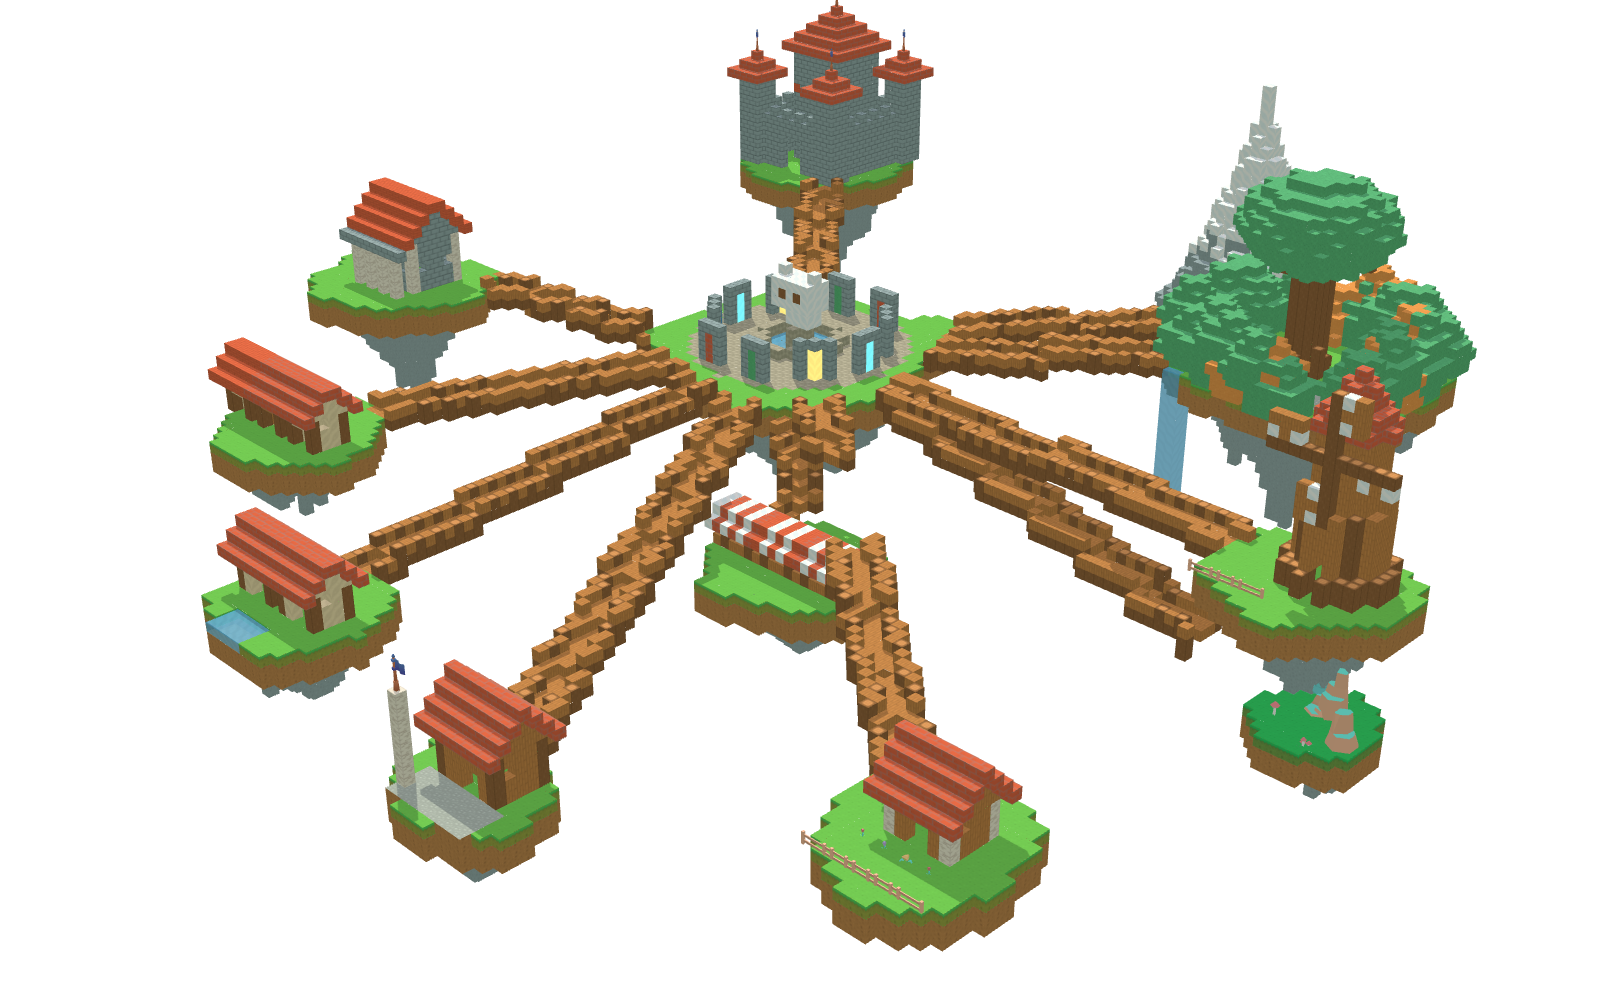
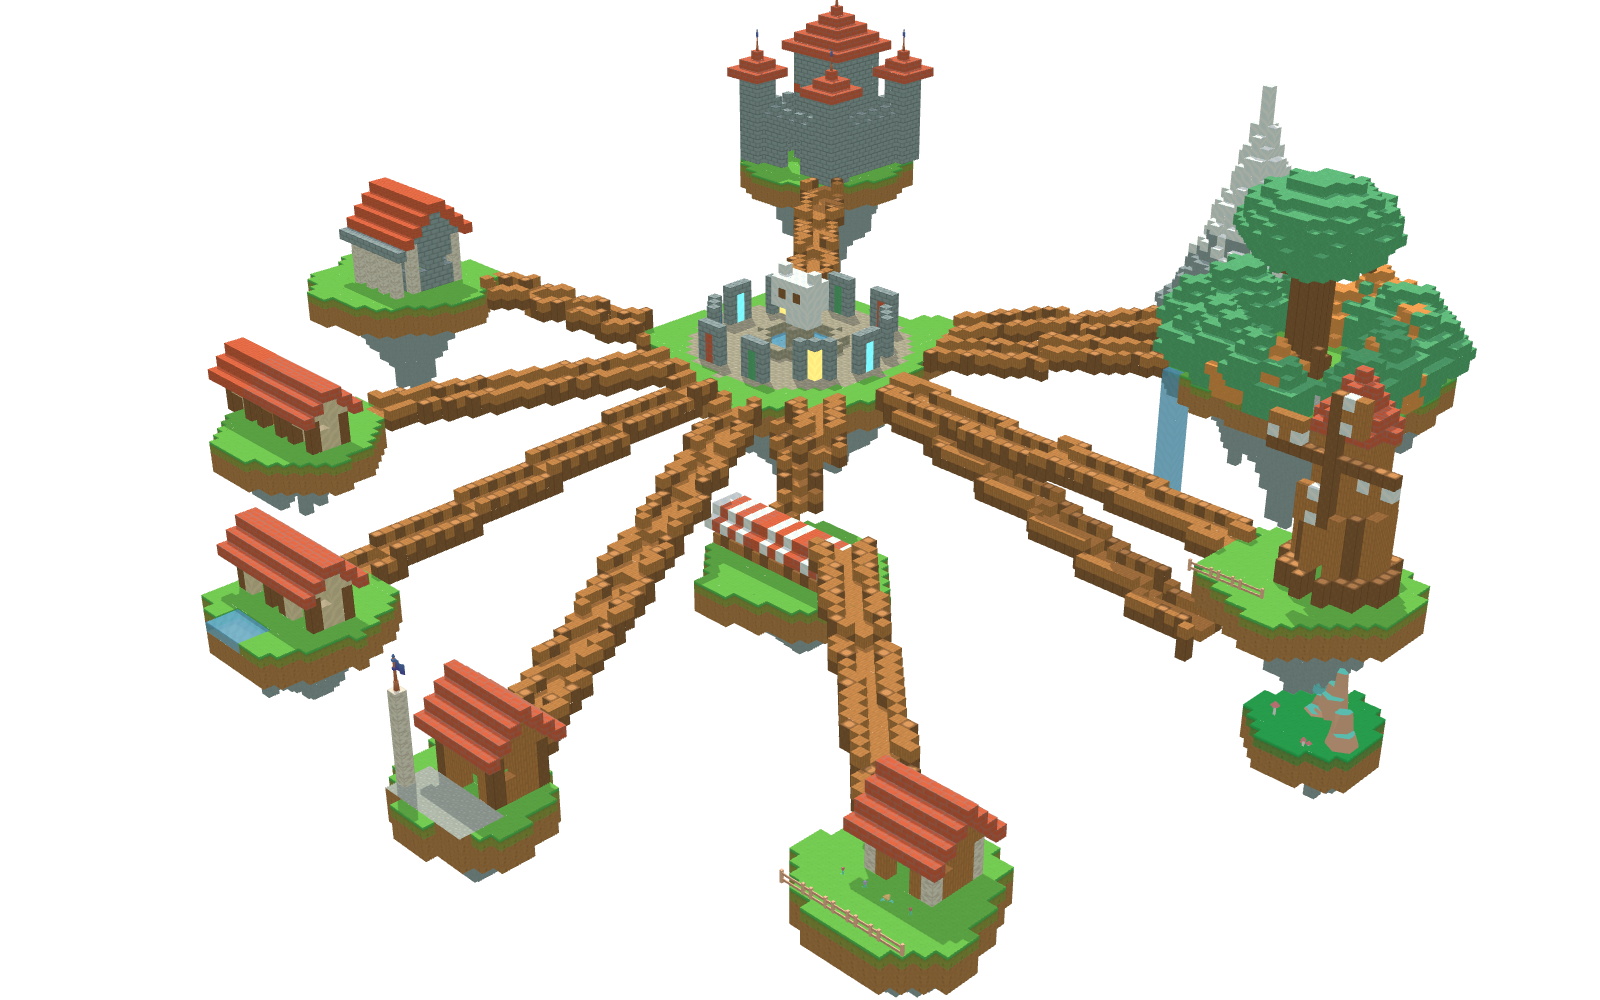
fix(play): the home island card fits its row, E2E counts only the game canvas

Changed region(s): [[0.4688, 0.527, 0.6562, 1.0], [0.4688, 0.403, 0.5625, 0.465]]

diff --git a/apps/web/e2e/play.spec.ts b/apps/web/e2e/play.spec.ts
@@ -31,7 +31,7 @@ test('loads /play cleanly within the desktop budget and only talks to its own or
   // Equipment comes from GET /api/character (set in the setup project).
   expect(stats.outfit).toEqual(['hat-witch-pink', 'backpack-brown']);
   // React StrictMode mounts the game twice in dev; production must end with exactly one canvas.
-  await expect(page.locator('canvas')).toHaveCount(1);
+  await expect(page.locator('canvas:not(.minimap-canvas):not(.minimap-sheet-canvas)')).toHaveCount(1);
 });
 
 test('walking sideways, the child keeps a straight way while the view swings round behind her', async ({ page }) => {
@@ -162,7 +162,7 @@ test('dragging on the scene orbits the camera (mouse and touch share the pointer
   await page.goto('/play?quality=low');
   await waitReady(page);
   const before = (await readStats(page)).cameraYaw;
-  const box = await page.locator('canvas').first().boundingBox();
+  const box = await page.locator('canvas:not(.minimap-canvas):not(.minimap-sheet-canvas)').first().boundingBox();
   if (!box) throw new Error('canvas not visible');
   const y = box.y + box.height * 0.4;
   await page.mouse.move(box.x + box.width * 0.5, y);
@@ -221,7 +221,7 @@ test('the camera never ends up inside a block, pressed against the ancient tree'
   await waitReady(page);
   // Walk into the trunk while orbiting the camera all the way round.
   await page.keyboard.down('KeyW');
-  const box = await page.locator('canvas').first().boundingBox();
+  const box = await page.locator('canvas:not(.minimap-canvas):not(.minimap-sheet-canvas)').first().boundingBox();
   if (!box) throw new Error('canvas not visible');
   for (let i = 0; i < 6; i++) {
     const y = box.y + box.height * 0.4;
@@ -240,7 +240,7 @@ test('leaving /play disposes the game: no canvas, no stats handle', async ({ pag
   await page.getByRole('button', { name: /Menu/ }).click();
   await page.getByRole('link', { name: /Về trang chủ/ }).click();
   await expect(page.locator('[data-id="home"]')).toBeVisible();
-  await expect(page.locator('canvas')).toHaveCount(0);
+  await expect(page.locator('canvas:not(.minimap-canvas):not(.minimap-sheet-canvas)')).toHaveCount(0);
   expect(await page.evaluate(() => window.__miuStats)).toBeUndefined();
 });
 
@@ -262,7 +262,7 @@ test('Pause stops rendering (no new frames) and Resume starts it again; Esc open
   await expect(page.getByRole('dialog', { name: 'Tạm dừng' })).toBeVisible();
   await page.keyboard.press('Escape');
   await expect(page.getByRole('dialog')).toHaveCount(0);
-  await expect(page.locator('canvas')).toHaveCount(1);
+  await expect(page.locator('canvas:not(.minimap-canvas):not(.minimap-sheet-canvas)')).toHaveCount(1);
 });
 
 test('a lost WebGL context stops the game and offers a reload instead of breaking', async ({ page }) => {
@@ -283,7 +283,7 @@ test('a lost WebGL context stops the game and offers a reload instead of breakin
 
   await page.locator('[data-id="play-context-lost-reload"]').click();
   await waitReady(page);
-  await expect(page.locator('canvas')).toHaveCount(1);
+  await expect(page.locator('canvas:not(.minimap-canvas):not(.minimap-sheet-canvas)')).toHaveCount(1);
   await expect(page.locator('[data-id="play-context-lost"]')).toHaveCount(0);
   expect(pageErrors).toEqual([]);
 });

diff --git a/apps/web/e2e/creator.spec.ts b/apps/web/e2e/creator.spec.ts
@@ -36,7 +36,7 @@ test('a new profile creates its character first, sees outfit changes live, then 
   await expect(page.locator('[data-id="creator-species-cat"]')).toHaveAttribute('aria-pressed', 'true');
   await page.getByRole('button', { name: /Cáo/ }).click();
   await page.waitForFunction(() => window.__miuPreview?.ready === true, null, { timeout: 60_000 });
-  await expect(page.locator('canvas')).toHaveCount(1);
+  await expect(page.locator('canvas:not(.minimap-canvas):not(.minimap-sheet-canvas)')).toHaveCount(1);
   expect(await previewOutfit(page)).toEqual([]);
 
   // Swapping gear updates the same preview (no second canvas).
@@ -45,7 +45,7 @@ test('a new profile creates its character first, sees outfit changes live, then 
   await page.getByRole('tab', { name: 'Balo' }).click();
   await page.getByRole('button', { name: /Balo đỏ/ }).click();
   await expect.poll(() => previewOutfit(page)).toEqual(['hat-cap-yellow', 'backpack-red']);
-  await expect(page.locator('canvas')).toHaveCount(1);
+  await expect(page.locator('canvas:not(.minimap-canvas):not(.minimap-sheet-canvas)')).toHaveCount(1);
   await expect(page.locator('[data-id="creator-item-backpack-leaf"]')).toBeDisabled();
   // Shoes are a pair: one item, worn on both feet. Every tile shows the item's picture from the build.
   await page.getByRole('tab', { name: 'Giày' }).click();
@@ -62,7 +62,7 @@ test('a new profile creates its character first, sees outfit changes live, then 
   await page.locator('[data-id="creator-pet-meo-trang"]').click();
   await expect(page.locator('[data-id="creator-pet-meo-trang"]')).toHaveAttribute('aria-pressed', 'true');
   await expect.poll(() => page.evaluate(() => window.__miuPreview?.pet ?? null)).toBe('meo-trang');
-  await expect(page.locator('canvas')).toHaveCount(1);
+  await expect(page.locator('canvas:not(.minimap-canvas):not(.minimap-sheet-canvas)')).toHaveCount(1);
   await page.screenshot({ path: fileURLToPath(new URL('../../../.data/creator/pet-preview.png', import.meta.url)) });
 
   for (const [label, emote] of [['Vẫy tay', 'wave'], ['Nhảy', 'jump'], ['Ngáp', 'yawn'], ['Vui mừng', 'cheer']] as const) {
@@ -99,7 +99,7 @@ test('a new profile creates its character first, sees outfit changes live, then 
   await expect.poll(async () => (await readStats(page)).petClip, { timeout: 8_000 }).toBe('idle');
   await page.screenshot({ path: fileURLToPath(new URL('../../../.data/creator/pet-play.png', import.meta.url)) });
   // The preview was disposed on leaving /create: only the game's canvas remains.
-  await expect(page.locator('canvas')).toHaveCount(1);
+  await expect(page.locator('canvas:not(.minimap-canvas):not(.minimap-sheet-canvas)')).toHaveCount(1);
   expect(await page.evaluate(() => window.__miuPreview)).toBeUndefined();
 
   // Back on the picker, the profile shows its fox and now goes straight Home.

diff --git a/apps/web/e2e/quest-flow.spec.ts b/apps/web/e2e/quest-flow.spec.ts
@@ -76,9 +76,10 @@ test('meet the parrot, follow the arrow, find the three clues, and the letter op
   expect(pageErrors).toEqual([]);
 });
 
-test('an NPC whose turn has not come says so, and never the same line twice in a row', async ({ page, baseURL }) => {
+test('a target whose turn has not come says so, and never the same line twice in a row', async ({ page, baseURL }) => {
   await freshChild(page, baseURL ?? '');
-  await page.goto(playAt('animal-beaver'));
+  // The beaver and the parrot offer a minigame instead of this line; the chest (kind `chest`) gives the same kind of line.
+  await page.goto(playAt('chest'));
   await waitReady(page);
   const said: string[] = [];
   const toast = page.locator('[data-id="toast"]');
@@ -87,7 +88,7 @@ test('an NPC whose turn has not come says so, and never the same line twice in a
     // Wait for the new line to replace the previous one before reading it.
     const previous = said.at(-1) ?? '';
     await expect.poll(async () => (await toast.textContent()) ?? '').not.toBe(previous);
-    await expect(toast).toContainText('Hải ly');
+    await expect(toast).toContainText('Rương');
     said.push((await toast.textContent()) ?? '');
   }
   for (let i = 1; i < said.length; i += 1) expect(said[i]).not.toBe(said[i - 1]);

diff --git a/tools/world/generate-world-overview.ts b/tools/world/generate-world-overview.ts
@@ -66,7 +66,7 @@ const ISLANDS = [
   { region: 'lang-ven-song', across: -59, away: 85, radius: 9, top: 18, depth: 10, lift: 4 },
   { region: 'nong-trai', across: 56, away: 76, radius: 9, top: 24, depth: 10, lift: 2 },
   { region: 'nui-tuyet', across: 66, away: 160, radius: 8, top: 22, depth: 10, lift: 16 },
-  { region: 'nha-cua-be', across: 12, away: 38, radius: 8, top: 19, depth: 10, lift: 5 },
+  { region: 'nha-cua-be', across: 10, away: 32, radius: 8, top: 19, depth: 10, lift: 5 },
   { region: 'dao-bi-an', across: 57, away: 66, radius: 6, top: 15, depth: 8, lift: -7 },
   // The school mirrors the mystery island on the near left: the one place of the label grid left free.
   { region: 'truong-hoc', across: -33, away: 55, radius: 7, top: 15, depth: 9, lift: 0 },

diff --git a/apps/web/e2e/account-flow.spec.ts b/apps/web/e2e/account-flow.spec.ts
@@ -92,7 +92,7 @@ test('Google sign-in → set PIN → consent → create profile → pick profile
   await page.locator('[data-id="region-explore"]').click();
   await expect(page).toHaveURL(/\/play\?region=khu-rung-bi-mat&quest=forest-ch1$/);
   await waitReady(page);
-  await expect(page.locator('canvas')).toHaveCount(1);
+  await expect(page.locator('canvas:not(.minimap-canvas):not(.minimap-sheet-canvas)')).toHaveCount(1);
 
   // Same session, a couple of steps from the parrot and a step to its side (the spawn heading is 45°), so the
   // camera behind the child shows the parrot beside her rather than behind her: the React label appears.
